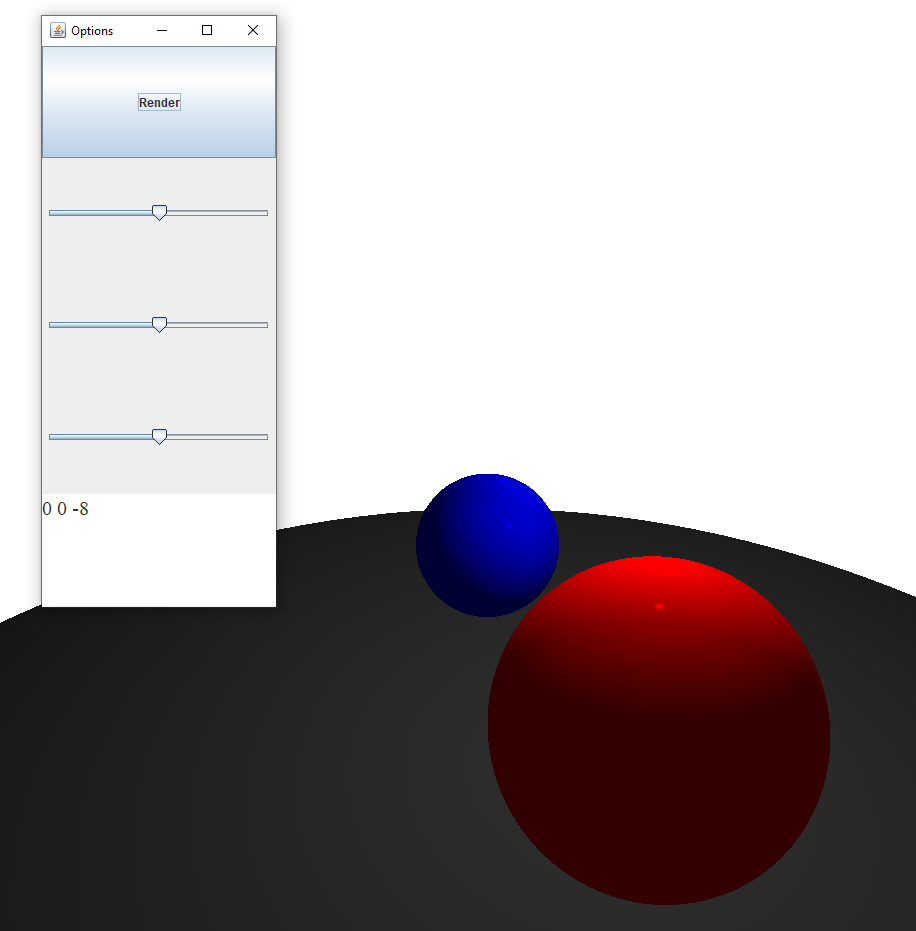
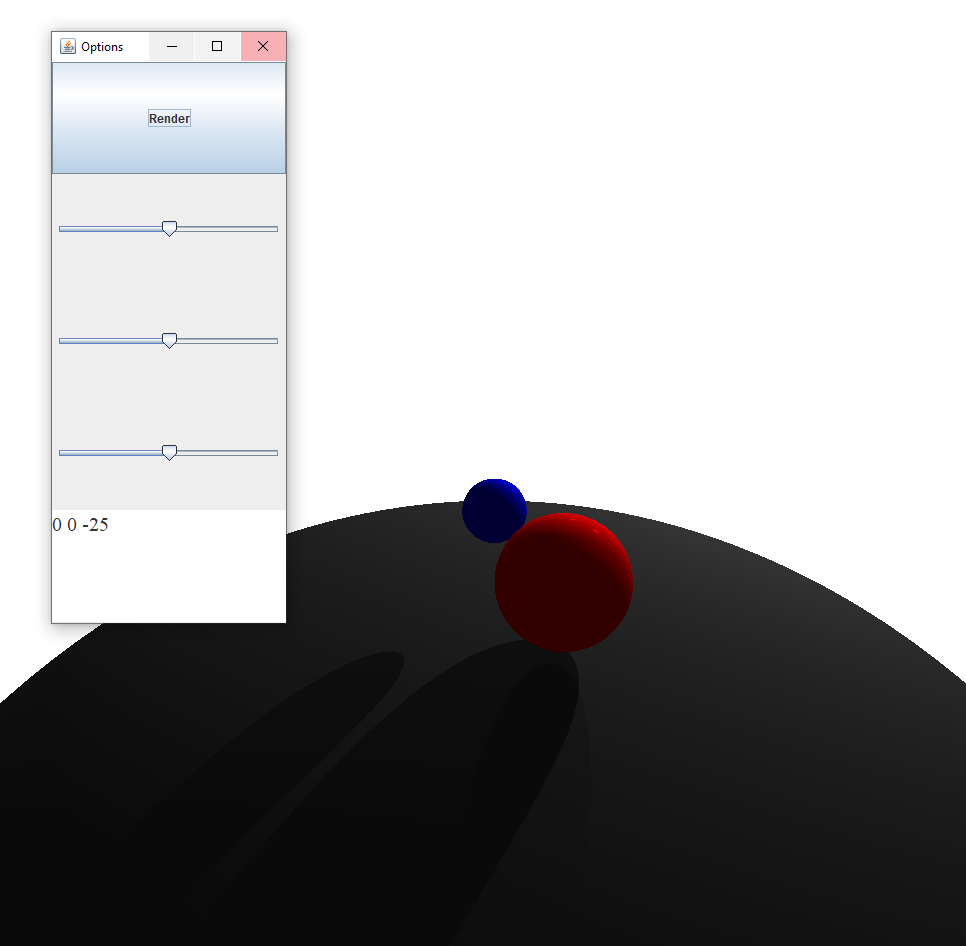
Added shadows
Added shadows and small a few small changes

Changed region(s): [[0.0, 0.0, 1.0, 1.0]]

diff --git a/Render.java b/Render.java
@@ -12,18 +12,8 @@ class Render{
     }
     
     private Color traceRay(double[] O, double[] D, int t_max){
-        Sphere closest_sphere = null;
-        double closest_t = 1000; //just a big number -- should be inf -- also sets a max render distance
-        for (Sphere s: Scene.spheres){
-           double t = intersectRaySphere(O, D, s)[0];
-           if (t > 0){
-           }
-           if (t < closest_t && t != 0 && t < t_max){
-            
-            closest_sphere = s;
-            closest_t = t;
-           }
-        }
+        Sphere closest_sphere = closestSphere(O, D, 0, t_max);
+        double closest_t = closestT(O, D, 0, t_max);
         if (closest_sphere == null){
             return Color.WHITE;
         }
@@ -53,16 +43,24 @@ class Render{
         double i = 0.0;
         double[] L = null;
         double[] R = null;
+        double t_max = Settings.render_distance;
         for (Light l: Scene.lights){
             if (l.getType() == Light.Type.AMBIENT){
                 i += l.getIntesity();
             }
             else if (l.getType() == Light.Type.POINT){
                 L = RenderMath.vectorSubtract(l.getDirection(), P);
+                t_max = 1;
                 
             }
             else if (l.getType() == Light.Type.DIRECTIONAL){
                 L = RenderMath.vectorAdd(l.getDirection(), new double[]{0,0,0}); //clone "workaround" 
+            }
+
+            //shadows
+            Sphere shadowSphere = closestSphere(P, L, 0.001, t_max);
+            if (shadowSphere != null){
+                continue;
             }
 
             //diffuse
@@ -85,5 +83,29 @@ class Render{
             }
         }
         return i;
+    }
+
+    /* Java needs pairs and tupals.ect this isnt very efficient*/
+    private Sphere closestSphere(double[] O, double[] D, double t_min, double t_max){ //finds closest sphere in ray
+        Sphere closest_sphere = null;
+        double closest_t = Settings.render_distance; //just a big number -- should be inf -- also sets a max render distance
+        for (Sphere s: Scene.spheres){
+           double t = intersectRaySphere(O, D, s)[0];
+           if (t < closest_t && t > t_min && t < t_max){
+            closest_sphere = s;
+            closest_t = t;
+           }
+        }
+        return closest_sphere;
+    }
+    private double closestT(double[] O, double[] D, double t_min, double t_max){ //finds closest interseciton t in ray
+        double closest_t = Settings.render_distance; //just a big number -- should be inf -- also sets a max render distance
+        for (Sphere s: Scene.spheres){
+           double t = intersectRaySphere(O, D, s)[0];
+           if (t < closest_t && t > t_min && t < t_max){
+            closest_t = t;
+           }
+        }
+        return closest_t;
     }
 }

diff --git a/Scene.java b/Scene.java
@@ -7,6 +7,6 @@ class Scene{
     public static Light[] lights = new Light[]{
         new Light(0.2, Light.Type.DIRECTIONAL, new double[]{1,4,4}),
         new Light(0.2),
-        new Light(0.6, Light.Type.POINT, new double[]{2,1,3})
+        new Light(0.6, Light.Type.POINT, new double[]{15,15,15})
     };
 }

diff --git a/Settings.java b/Settings.java
@@ -4,5 +4,6 @@ class Settings{
     public final static double vpW = 1; //Viewport width 
     public final static double vpH = 1; //Viewport height 
     public final static double d = 1; //distance from camera to viewport 
+    public final static double render_distance = 1000;
 
 }
